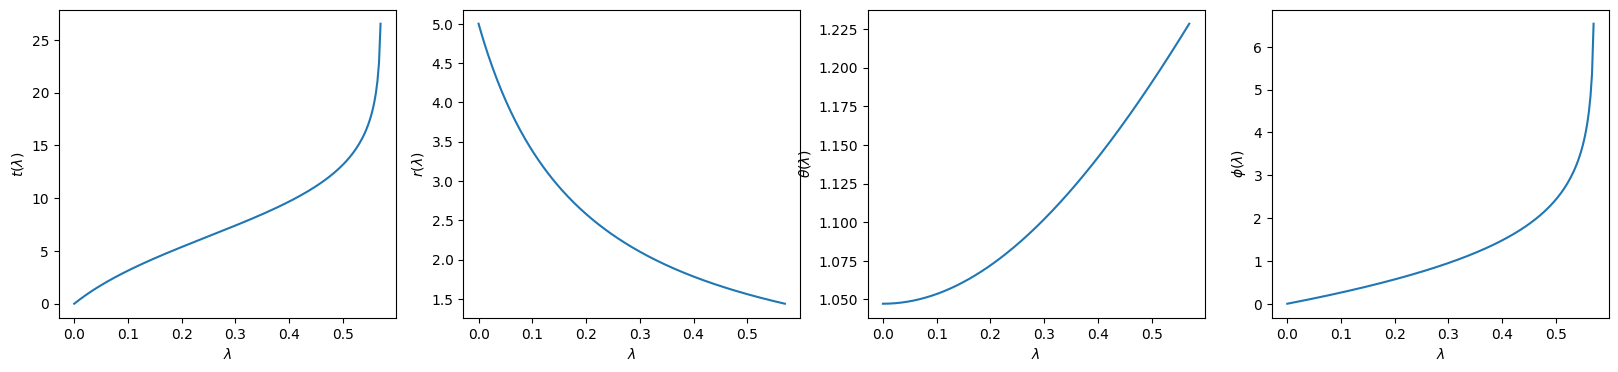
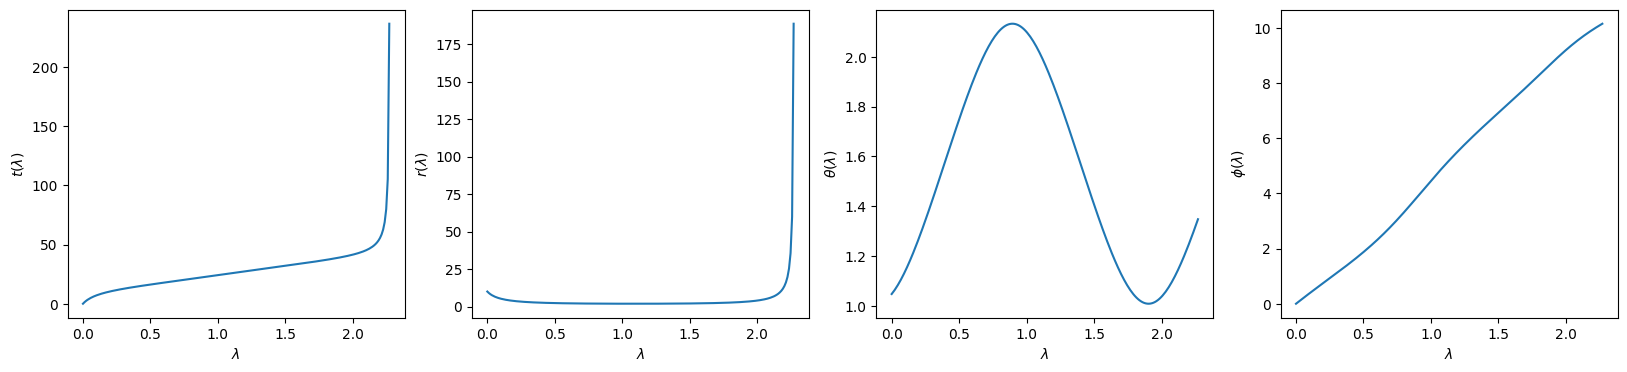
Update docs
Change README to be consistent with notebooks.

diff --git a/README.md b/README.md
@@ -317,7 +317,7 @@ $$
 
 Construct a `LightOrbit` using the initial position and the initial momentum.
 ```python
-orbit = kg.LightOrbit(0.9, (0, 5, pi/3, 0), (1.678541324262247, -1, 0, 0.1))
+orbit = kg.LightOrbit(0.9, (0, 10, pi/3, 0), (1.3, -1.0002785057472545, 0.007, 0.04))
 ```
 The `LightOrbit` class has `lambda_x` attribute, specifying the Mino time of escape or capture. This gets updated after calling `trajectory()`
 ```python
@@ -328,7 +328,7 @@ orbit.lambda_x
 
 As with timelike orbits, the `plot()` method can be used to plot the orbit
 ```python
-fig, ax = orbit.plot(0, 0.57, axes_limits=(-10, 10, -10, 10, -10, 10))
+fig, ax = orbit.plot(0, 2.27, axes_limits=(-10, 10, -10, 10, -10, 10))
 ```
 ![png](README_files/LightOrbitPlot.png)
 
@@ -337,7 +337,7 @@ Using the `trajectory()` method, we can compute the trajectory of the light ray 
 import numpy as np
 import matplotlib.pyplot as plt
 
-time = np.linspace(0,0.57,200)
+time = np.linspace(0,2.27,200)
 
 plt.figure(figsize=(20,4))
 
@@ -377,9 +377,9 @@ $$
 a = \frac{J}{M^2}, \quad\quad \alpha = -\frac{\ell}{\sin \theta_0}, \quad\quad \beta = \text{sgn } p^\theta_0 \sqrt{\eta + a^2 \cos^2 \theta_0 - \ell^2 \cot^2 \theta_0}
 $$
 
-Construct a `DistantLightOrbit` using the initial position and the initial momentum.
+Construct a `DistantLightOrbit` using the initial angular coordinates $(\theta, \phi)$ and Bardeen's coordinates.
 ```python
-orbit = kg.DistantLightOrbit(0.9, pi/4, 0, 4.3774364, 4)
+orbit = kg.DistantLightOrbit(0.9, pi/3, 0, -4, 4.5)
 ```
 The class extends from `LightOrbit`, so the same methods are accessible.
 
